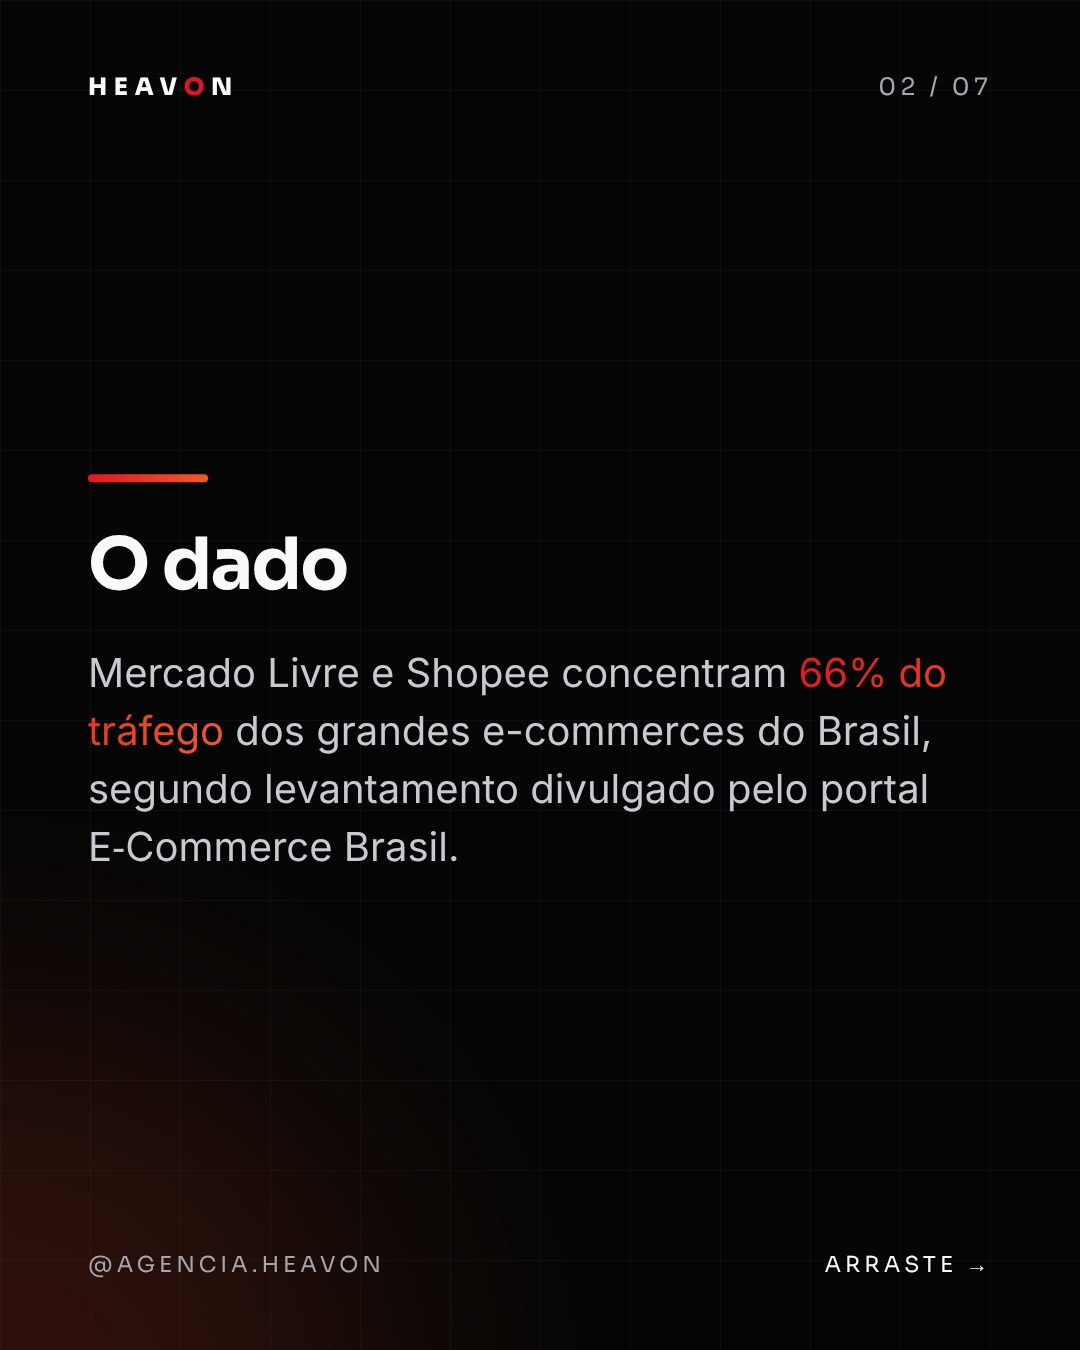
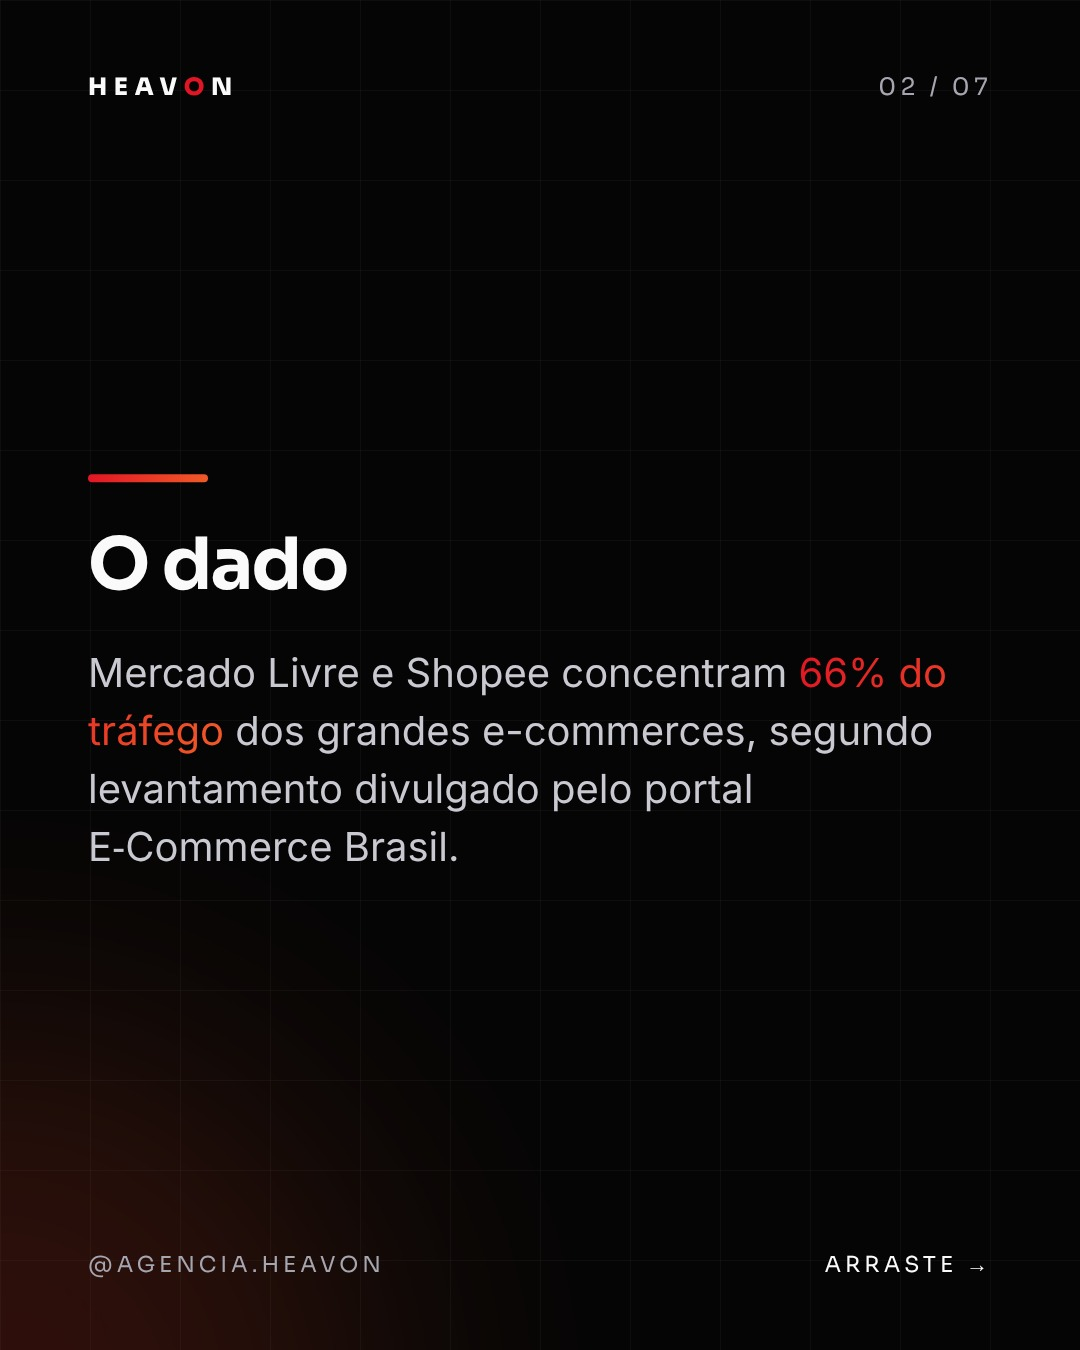
Carrossel 16/11: correções de precisão da revisão de marca
Claude-Session: https://claude.ai/code/session_019gudQb4XUW4HRm8JtutqGz

Changed region(s): [[0.0917, 0.5289, 0.8556, 0.6222]]

diff --git a/posts/2026-11-16/relatorio.md b/posts/2026-11-16/relatorio.md
@@ -45,6 +45,10 @@ Descartados: Trends do dia dominado por Justiça/tribunais, júri, futebol, cele
 Corrigida a quebra de linha no hífen de "E-Commerce" (slide 2).
 **Legenda:** ver carrossel/caption.txt (3 emojis, 8 hashtags)
 
-**Publicação:** pendente (18:00). API da Meta bloqueada desde 14/11 (às 14:05 seguia bloqueada).
+**Revisão de marca (17:10):** corrigidos 2 pontos de precisão — removido "do Brasil" do dado de 66% (a fonte não
+diz isso) e "sem pagar comissão" virou "sem a comissão do marketplace" (loja própria também tem custos).
+**Token:** novo token salvo às 17:05, válido até 15/01/2027 — API desbloqueada.
+
+**Publicação:** pendente (18:00).
 
 **Atualização 16/11:** vídeo refeito no padrão v2 (voz Kokoro pm_alex, legenda sincronizada, trilha Mixkit) a pedido do usuário, que reprovou a qualidade do áudio e do vídeo anteriores. Aguarda aprovação antes de publicar.
